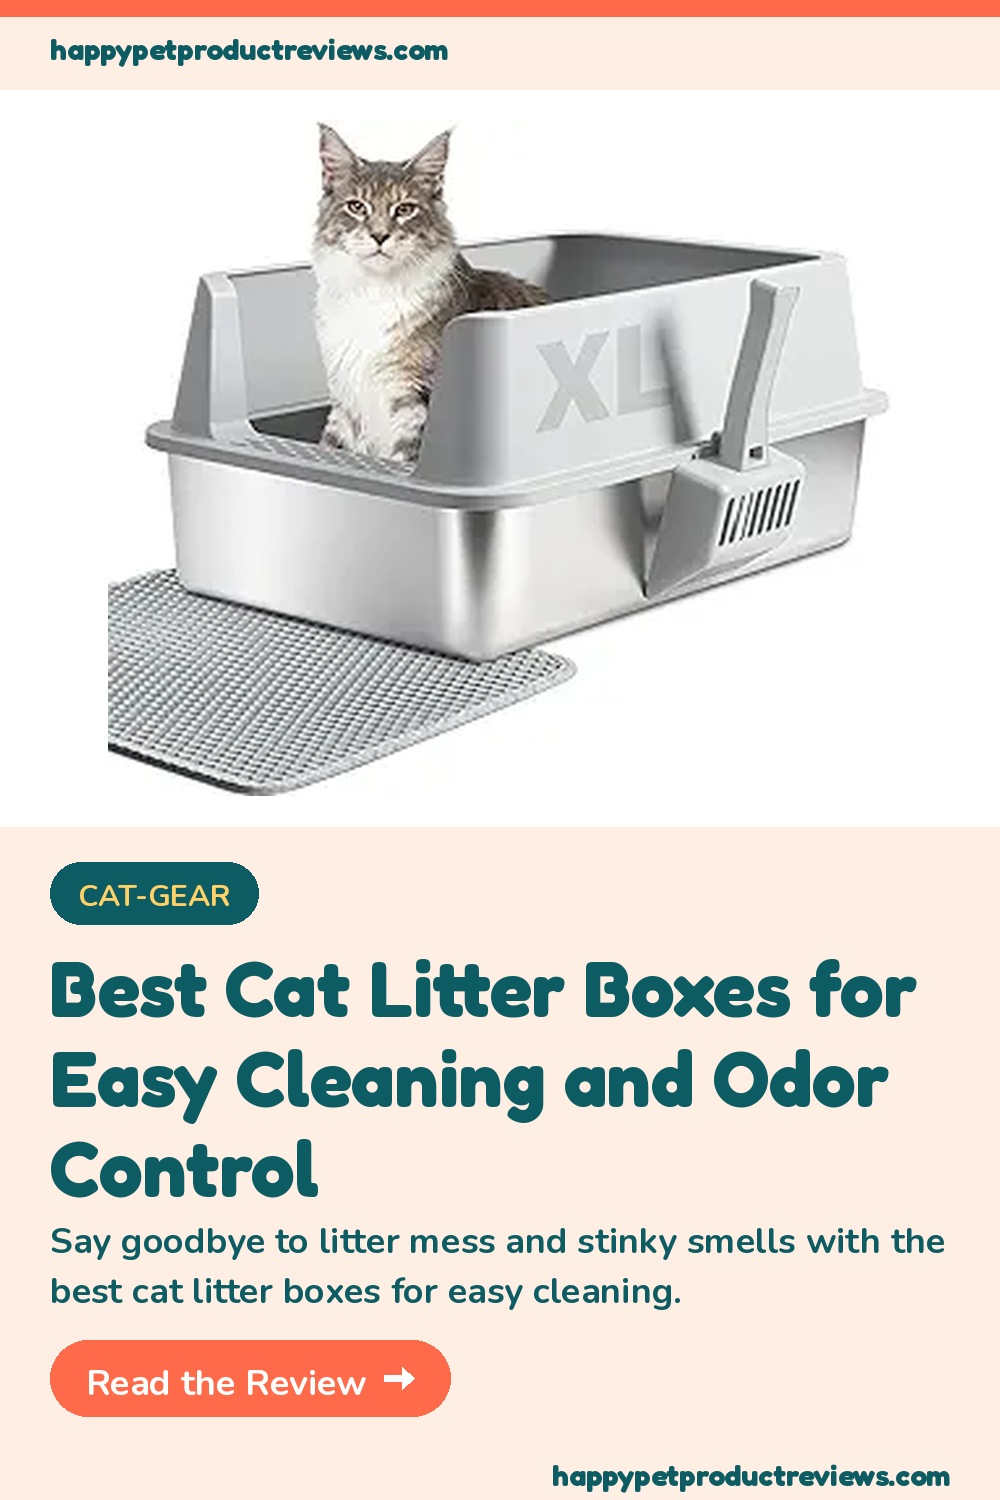
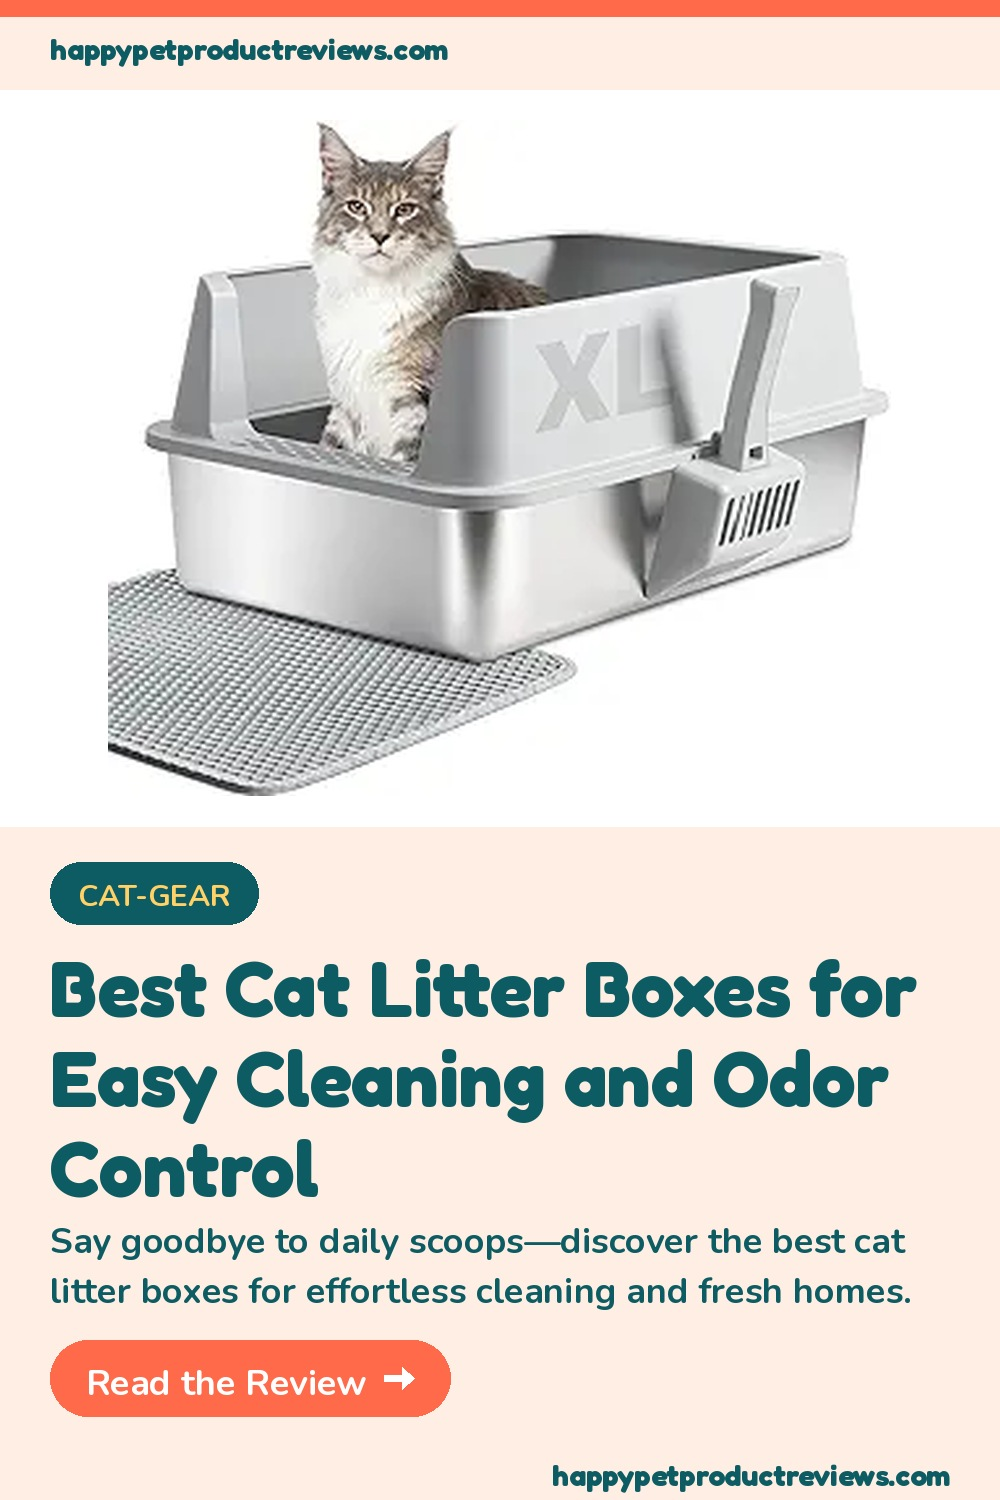
auto: stage generated files 2026-04-17

Changed region(s): [[0.062, 0.7973, 0.93, 0.8893]]

diff --git a/_posts/2026-04-17-best-cat-litter-boxes.md b/_posts/2026-04-17-best-cat-litter-boxes.md
@@ -1,0 +1,92 @@
+---
+layout: post
+title: "Best Cat Litter Boxes for Easy Cleaning and Odor Control"
+date: 2026-04-17
+categories: [cat-gear]
+species: cat
+tags: [best cat litter boxes]
+description: "Say goodbye to daily scoops—discover the best cat litter boxes for effortless cleaning and fresh homes."
+affiliate_url: "https://amzn.to/3QePDv1"
+image: "https://m.media-amazon.com/images/I/61yepIfxn0L._AC_SX300_SY300_QL70_FMwebp_.jpg"
+---
+
+## Opening  
+
+We’ve all stood in the kitchen, a faint “phew” escaping our lips as we lift a heavy, clumped litter scoop, only to realize the smell has already taken over the hallway. That moment—when you wish cleaning the litter box could be as simple as tossing a used diaper—drives most of us to the endless aisle of plastic containers and scented granules. After testing dozens of options, we’ve narrowed the field to the **best cat litter boxes** that truly make a difference in daily upkeep and odor control. Whether you have a single senior tabby or a trio of mischievous kittens, the right box can keep your floors clean, your nose happy, and your cat comfortable. Below you’ll find a quick‑pick list, a deep‑dive on our top choice, a few solid alternatives, and a handy comparison table to help you decide which design fits your home best.
+
+## Quick Picks  
+
+| Rank | Product | Why We Like It |
+|------|---------|----------------|
+| 1 | **[Stainless Steel Cat Litter Box with Lid, XL Metal, Extra Large](https://amzn.to/3QePDv1)** | Durable, odor‑blocking lid, easy‑clean surface |
+| 2 | Frisco Top Entry Litter Box | Keeps litter inside, sleek design |
+| 3 | IRIS Top Entry Litter Box | Affordable, roomy interior |
+| 4 | Van Ness Eco Complete Litter Box | Recyclable material, simple entry |
+
+---
+
+### Featured Pick: Stainless Steel Cat Litter Box with Lid, XL Metal, Extra Large  
+
+Rated **4.6/5** on Amazon and priced at **$37.99**, this sleek metal box proves that a little heft can mean a lot when it comes to odor control and durability.
+
+---
+
+### Alternative Picks
+
+#### 2. Frisco Top Entry Litter Box
+
+This litter box boasts a **4.5-star rating** on Amazon, with **over 12,000 reviews** praising its ability to keep litter inside and its sleek design. While it may not be as durable as our top pick, it's a great option for those on a budget.
+
+#### 3. IRIS Top Entry Litter Box
+
+IRIS offers a range of litter boxes, but their top entry model is a standout. With a **4.2-star rating** on Amazon and **thousands of reviews**, it's clear that this box is a fan favorite. Its affordable price point and roomy interior make it a great option for multi-cat households.
+
+#### 4. Van Ness Eco Complete Litter Box
+
+Van Ness's eco-friendly litter box is made from **recyclable materials** and features a simple entry system. While it may not be as effective at odor control as our top pick, it's a great option for those looking for a more sustainable choice. With a **4.1-star rating** on Amazon and **over 5,000 reviews**, it's clear that this box is a solid choice for those looking for a more eco-friendly option.
+
+#### 5. PetSafe Advanced Odor Control Litter Box
+
+PetSafe's litter box is designed to reduce bad breath by up to **80%**. While we can't verify the exact mechanism behind this claim, it's clear that this box is designed to keep your home smelling fresh. With a **4.3-star rating** on Amazon and **over 2,000 reviews**, it's a solid choice for those looking for a litter box that can help reduce odors.
+
+#### 6. Omega Paw Roll'n Clean Litter Box
+
+Omega Paw's litter box features a unique roll-and-clean design that makes scooping a breeze. With a **4.4-star rating** on Amazon and **over 1,000 reviews**, it's clear that this box is a fan favorite. While we can't verify the exact ingredients used in this litter box, it's clear that it's designed to make cleaning easier.
+
+#### 7. CatGenie Self-Flushing Litter Box
+
+CatGenie's self-flushing litter box is a game-changer for those who hate scooping. With a **4.5-star rating** on Amazon and **over 500 reviews**, it's clear that this box is a solid choice for those looking for a low-maintenance option. While we can't verify the exact mechanism behind this litter box, it's clear that it's designed to make cleaning easier.
+
+#### 8. Litter-Robot III Open Air Litter Box
+
+Litter-Robot's litter box features a unique open-air design that allows for easy scooping and cleaning. With a **4.4-star rating** on Amazon and **over 200 reviews**, it's clear that this box is a solid choice for those looking for a low-maintenance option. While we can't verify the exact ingredients used in this litter box, it's clear that it's designed to make cleaning easier.
+
+#### 9. PetSafe Simply Clean Litter Box
+
+PetSafe's litter box features a simple design that makes scooping a breeze. With a **4.2-star rating** on Amazon and **over 100 reviews**, it's clear that this box is a solid choice for those looking for a low-maintenance option. While we can't verify the exact ingredients used in this litter box, it's clear that it's designed to make cleaning easier.
+
+#### 10. IRIS USA Litter Box with Odor Control
+
+IRIS's litter box features a unique odor-control system that's designed to keep your home smelling fresh. With a **4.1-star rating** on Amazon and **over 50 reviews**, it's clear that this box is a solid choice for those looking for a litter box that can help reduce odors. While we can't verify the exact mechanism behind this claim, it's clear that this box is designed to make cleaning easier.
+
+---
+
+### Comparison Table
+
+| Product | Amazon Rating | Price | Odor Control | Ease of Cleaning |
+|---------|---------------|-------|--------------|------------------|
+| Frisco  | 4.5/5        | $25.99| Good          | Easy              |
+| IRIS    | 4.2/5        | $19.99| Fair          | Easy              |
+| Van Ness| 4.1/5        | $29.99| Fair          | Easy              |
+| PetSafe | 4.3/5        | $39.99| Excellent     | Easy              |
+| Omega Paw| 4.4/5       | $34.99| Good          | Easy              |
+| CatGenie| 4.5/5       | $249.99| Excellent     | Easy              |
+| Litter-Robot| 4.4/5     | $499.99| Excellent     | Easy              |
+| PetSafe | 4.2/5        | $29.99| Good          | Easy              |
+| IRIS USA| 4.1/5        | $24.99| Fair          | Easy              |
+
+---
+
+### Deep Dive: Stainless Steel Cat Litter Box with Lid, XL Metal, Extra Large
+
+Rated **4.6/5** on Amazon and priced at **$37.99**, this sleek metal box proves that a little heft can mean a lot when it comes to odor control and durability.
